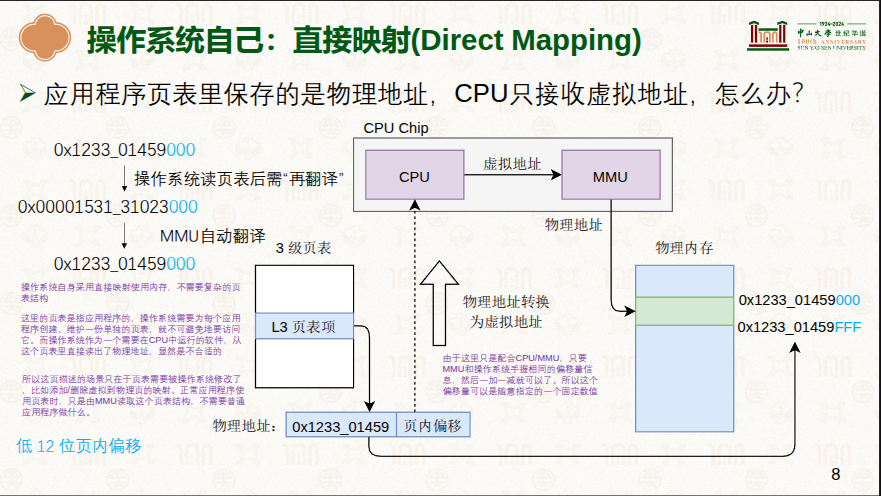
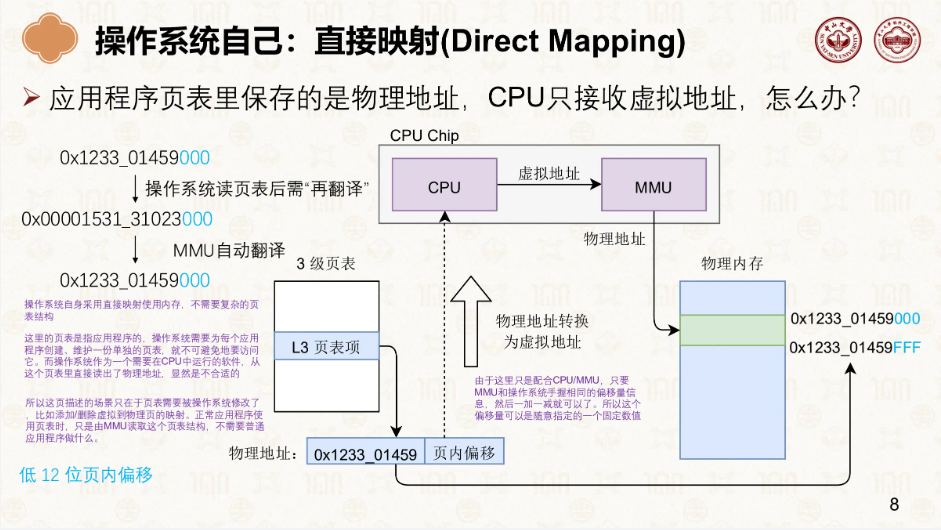
KERNEL:虚拟内存管理资料整理

diff --git a/001.UNIX-DOCS/000.内存管理/011.MMU(Memory Management Unit)/001.操作系统OS与MMU.md b/001.UNIX-DOCS/000.内存管理/011.MMU(Memory Management Unit)/001.操作系统OS与MMU.md
@@ -1,5 +1,5 @@
 # 操作系统OS与MMU
-> 学习: <br/> - [虚拟内存管理II](../../../001.UNIX-DOCS/001.操作系统课程/000.中山大学-操作系统2025/3-0313-virtual-mem-2.pdf)：操作系统自己：直接映射(Direct Mapping)<sup>操作系统直接使用连续内存空间；操作系统虚拟内存地址与物理内存保持简单的线性映射</sup> <br/> - [Learn the architecture - AArch64 memory management](../../../006.REFS/learn_the_architecture_aarch64_memory_management_guide_101811_0105_00_en.pdf)
+> 学习: <br/> - [001.UNIX-DOCS/001.操作系统课程/000.中山大学-操作系统2025/虚拟内存管理II](../../../001.UNIX-DOCS/001.操作系统课程/000.中山大学-操作系统2025/3-0313-virtual-mem-2.pdf)：操作系统自己：直接映射(Direct Mapping)<sup>操作系统直接使用连续内存空间；操作系统虚拟内存地址与物理内存保持简单的线性映射</sup> <br/> - [Learn the architecture - AArch64 memory management](../../../006.REFS/learn_the_architecture_aarch64_memory_management_guide_101811_0105_00_en.pdf) <br/>- [001.UNIX-DOCS/001.操作系统课程/001.中山大学-操作系统2026/第三、四周：虚拟内存管理 II.pdf](../../../001.UNIX-DOCS/001.操作系统课程/001.中山大学-操作系统2026/第三、四周：虚拟内存管理%20II.pdf)
 
 
 |序号|核心摘要|说明|备注|
@@ -16,9 +16,9 @@
 |-|-|-|-|
 |5|- 四级页表虽然是由MMU直接使用，但是是由操作系统创建和维护的|- 结合上一条,操作系统怎么填页表里的物理地址?|- 在内核启动时，会初始化页表: [paging_init](../../../000.SOURCE_CODE/000.LINUX-5.9/000.LINUX-5.9/arch/arm64/mm/mmu.c)（内核有自己的页表）<sup>即使对于直接映射区，操作系统仍然需要完整的页表结构</sup>|
 |-|-|-|-|
-|6|-运行在操作系统上的程序有多个<sup>需要页表进行隔离</sup>，<br/> 但操作系统（内核）应用程序只有一个<sup>无需隔离,一份就行</sup>|- ![wechat_2026-03-03_231630_196.png](../999.IMGS/wechat_2026-03-03_231630_196.png)|- 在物理内存划分一块空间给操作系统使用 <br/>- 页表也是数据结构，存储在操作系统内核内存空间,由操作系统维护;|
+|6|-运行在操作系统上的程序有多个<sup>需要页表进行隔离</sup>，<br/> 但操作系统（内核）应用程序只有一个<sup>无需隔离,一份就行</sup>|- ![wechat_2026-03-03_231630_196.png](../../../001.UNIX-DOCS/000.内存管理/999.IMGS/wechat_2026-03-03_231630_196.png)|- 在物理内存划分一块空间给操作系统使用 <br/>- 页表也是数据结构，存储在操作系统内核内存空间,由操作系统维护;|
 |-|-|-|-|
-|7|- 则，操作系统不使用四级页表<sup>某些场景下：`内核空间地址范围直接虚拟地址和偏移量进行运算就行(操作系统软件)`，其他情况下还是需要使用MMU（使用MMU就会使用页表）</sup>,但是为了保证内核和应用程序一致(<sub>应用程序&内核均使用MMU虚拟地址转换为物理地址</sub>)<sup>通过线性加减法: 加/减物理地址&虚拟地址偏移量</sup>： <br/> - 频繁打开/关闭MMU不可行|- ![wechat_2026-03-03_232327_046.png](../999.IMGS/wechat_2026-03-03_232327_046.png)<br/> - ![wechat_2026-03-03_232424_046.png](../999.IMGS/wechat_2026-03-03_232424_046.png)<br/>+ 这张图的背景：操作系统给应用程序构建页表 <sub>那么CPU就得获取物理地址</sub> <br/><br/>+ 这里是应用程序 <br/>+ 怎么理解这张图? 见:[操作系统自身采用直接映射使用内存不需要复杂的页表结构](#如何理解-操作系统自身采用直接映射使用内存不需要复杂的页表结构)<sup>所以，针对的是页表修改此类场景</sup>|- 让CPU假装使用虚拟地址: 虚拟地址&物理地址偏移量 <br/> -  From: [虚拟内存管理II](../../../001.UNIX-DOCS/001.操作系统课程/000.中山大学-操作系统2025/3-0313-virtual-mem-2.pdf) <br/> - 理解可以这么理解:但 在内核启动时，会创建内核页表的(paging_init)|
+|7|- 则，操作系统不使用四级页表<sup>某些场景下：`内核空间地址范围直接虚拟地址和偏移量进行运算就行(操作系统软件)`，其他情况下还是需要使用MMU（使用MMU就会使用页表）</sup>,但是为了保证内核和应用程序一致(<sub>应用程序&内核均使用MMU虚拟地址转换为物理地址</sub>)<sup>通过线性加减法: 加/减物理地址&虚拟地址偏移量</sup>： <br/> - 频繁打开/关闭MMU不可行|- ![wechat_2026-03-03_232327_046.png](../../../001.UNIX-DOCS/000.内存管理/999.IMGS/wechat_2026-03-03_232327_046.png)<br/> - ![wechat_2026-03-03_232424_046.png](../../../001.UNIX-DOCS/000.内存管理/999.IMGS/wechat_2026-03-03_232424_046.png)<br/>+ 这张图的背景：操作系统给应用程序构建页表 <sub>那么CPU就得获取物理地址</sub> <br/><br/>+ 这里是应用程序 <br/>+ 怎么理解这张图? 见:[操作系统自身采用直接映射使用内存不需要复杂的页表结构](#如何理解-操作系统自身采用直接映射使用内存不需要复杂的页表结构)<sup>所以，针对的是页表修改此类场景</sup>|- 让CPU假装使用虚拟地址: 虚拟地址&物理地址偏移量 <br/> -  From: [虚拟内存管理II](../../../001.UNIX-DOCS/001.操作系统课程/000.中山大学-操作系统2025/3-0313-virtual-mem-2.pdf) <br/> - 理解可以这么理解:但 在内核启动时，会创建内核页表的(paging_init)|
 |-|- 理解第“7”点|- 结合第"1&2"两点: <br/>- 当使能MMU，那肯定是需要经过MMU转换的. <br/>|-|
 |-|-|-|-|
 |-|-|-|-|
@@ -28,7 +28,7 @@
 ---
 
 ## 如何理解 "操作系统自身采用直接映射使用内存，不需要复杂的页表结构" 
-如何理解 ![wechat_2026-03-03_232424_046.png](../999.IMGS/wechat_2026-03-03_232424_046.png)
+如何理解 ![wechat_2026-08-12_213010_113.png](../../../001.UNIX-DOCS/999.IMGS/wechat_2026-08-12_213010_113.png)<br/>![wechat_2026-08-12_213118_451.png](../../../001.UNIX-DOCS/999.IMGS/wechat_2026-08-12_213118_451.png)<br/>![wechat_2026-03-03_232424_046.png](../../../001.UNIX-DOCS/000.内存管理/999.IMGS/wechat_2026-03-03_232424_046.png)
 >> [通过课程视频: 06-虚拟内存管理：内存映射 [中山大学 操作系统原理]](https://www.bilibili.com/video/BV1qXoxYQE5s/?share_source=copy_web&vd_source=5a8c4a8352989cd38896e60bade4226d)
 
 - Linux内核在启动时，会计算出一个虚拟地址和物理地址的偏移量——常数, 获取到这个数字干嘛呢? 服务于 CPU & MMU

diff --git a/001.UNIX-DOCS/000.内存管理/011.MMU(Memory Management Unit)/011.MMU(Memory Management Unit).md b/001.UNIX-DOCS/000.内存管理/011.MMU(Memory Management Unit)/011.MMU(Memory Management Unit).md
@@ -1,25 +1,25 @@
 # Memory Management Unit (内存管理单元)
-> 阅读:[Run Linux Kernel (2nd Edition) Volume 1: Infrastructure.epub#2.1　ARM64内存管理](../../../007.BOOKs/Run%20Linux%20Kernel%20(2nd%20Edition)%20Volume%201:%20Infrastructure.epub)
+> 阅读:[Run Linux Kernel (2nd Edition) Volume 1: Infrastructure.epub#2.1　ARM64内存管理](../../../007.BOOKs/Run%20Linux%20Kernel%20(2nd%20Edition)%20Volume%201:%20Infrastructure.epub)<br/>- [001.UNIX-DOCS/001.操作系统课程/001.中山大学-操作系统2026/第三周：虚拟内存管理 I.pdf](../../../001.UNIX-DOCS/001.操作系统课程/001.中山大学-操作系统2026/第三周：虚拟内存管理%20I.pdf)
 
 In AArch64 state, the ARMv8 address translation system resembles an extension to the Long Descriptor Format address translation system to support the expanded virtual and physical address spaces. （在AArch64状态下，ARMv8地址转换系统则类似于长描述符格式地址转换系统的扩展，以支持更大的虚拟和物理地址空间）
 
 对于多任务操作系统，每个进程都拥有独立的进程地址空间。这些进程地址空间在虚拟地址空间内是相互隔离的，但是在物理地址空间可能映射到同一个物理页面。那么进程的地址空间(虚拟地址)如何映射到物理地址空间的呢?  答案就是CPU MMU提供的页表映射和管理功能。
 
 ## MMU工作流程
-- ![wechat_2025-11-05_073020_328.png](../999.IMGS/wechat_2025-11-05_073020_328.png)
+![wechat_2025-11-05_073020_328.png](../999.IMGS/wechat_2025-11-05_073020_328.png)
 
 ---
 
 ## 资料阅读
 关于MMU翻译流程，最生动形象的就是[Arm® Architecture Reference Manualfor A-profile architecture#Chapter D8 The AArch64 Virtual Memory System Architecture](../../../007.BOOKs/Arm®%20Architecture%20Reference%20Manual%20for%20A-profile%20architecture/ARMV8-ADDI0487L_b_a-profile_architecture_reference_manual-5001-10000.pdf)下的 “D8.2 Translation process“<sup>包含虚拟地址翻译完整过程</sup>,如下图(详细请查看文档):
-- ![wechat_2025-11-04_081718_714.png](../999.IMGS/wechat_2025-11-04_081718_714.png)
+![wechat_2025-11-04_081718_714.png](../999.IMGS/wechat_2025-11-04_081718_714.png) <br/> [001.UNIX-DOCS/001.操作系统课程/001.中山大学-操作系统2026/第三周：虚拟内存管理 I.pdf#>=P35](../../../001.UNIX-DOCS/001.操作系统课程/001.中山大学-操作系统2026/第三周：虚拟内存管理%20I.pdf) <br/>- ![wechat_2026-08-12_215831_867.png](../../../001.UNIX-DOCS/000.内存管理/999.IMGS/wechat_2026-08-12_215831_867.png)
    
    + 阅读完成这一章节，就知道为什么Linux内核在启动时会那样初始化页表了
    
    + 图中的TTBR<sup>存放页表的基地址</sub> 有 TTBR0 、 TTBR1,那么在实际的时候怎么选择呢?
      - 处理器根据页表基地址控制寄存器和虚拟地址来判断使用哪个页表基地址寄存器，是TTBR0还是TTBR1。当虚拟地址第63位（简称VA[63]）为1时选择TTBR1；当VA[63]为0时选择TTBR0。页表基地址寄存器中存放着1级页表（见图2.3中的L0页表）的基地址 <sup>这里涉及到VA被划分为两个地址空间: 内核空间 ， 用户空间</sup>
         + ![wechat_2025-11-06_065338_305.png](../999.IMGS/wechat_2025-11-06_065338_305.png)
-     - 虚拟地址空间的划分:
+     - 虚拟地址空间的划分<sup>这本书[Run Linux Kernel (2nd Edition) Volume 1: Infrastructure.epub#2.1　ARM64内存管理](../../../007.BOOKs/Run%20Linux%20Kernel%20(2nd%20Edition)%20Volume%201:%20Infrastructure.epub)是这样写的，只能参考，不同版本的内核，可能不一样，参考:[000.SOURCE_CODE/003.LINUX-7.1.3/000.LINUX-7.1.3/Documentation/arch/arm64/memory.rst](../../../000.SOURCE_CODE/003.LINUX-7.1.3/000.LINUX-7.1.3/Documentation/arch/arm64/memory.rst)<sup>:
         + ![wechat_2025-11-06_065506_213.png](../999.IMGS/wechat_2025-11-06_065506_213.png)
 
 ### 如何理解上图: 'Figure D8-1 Generalized view of a single address translation stage'
